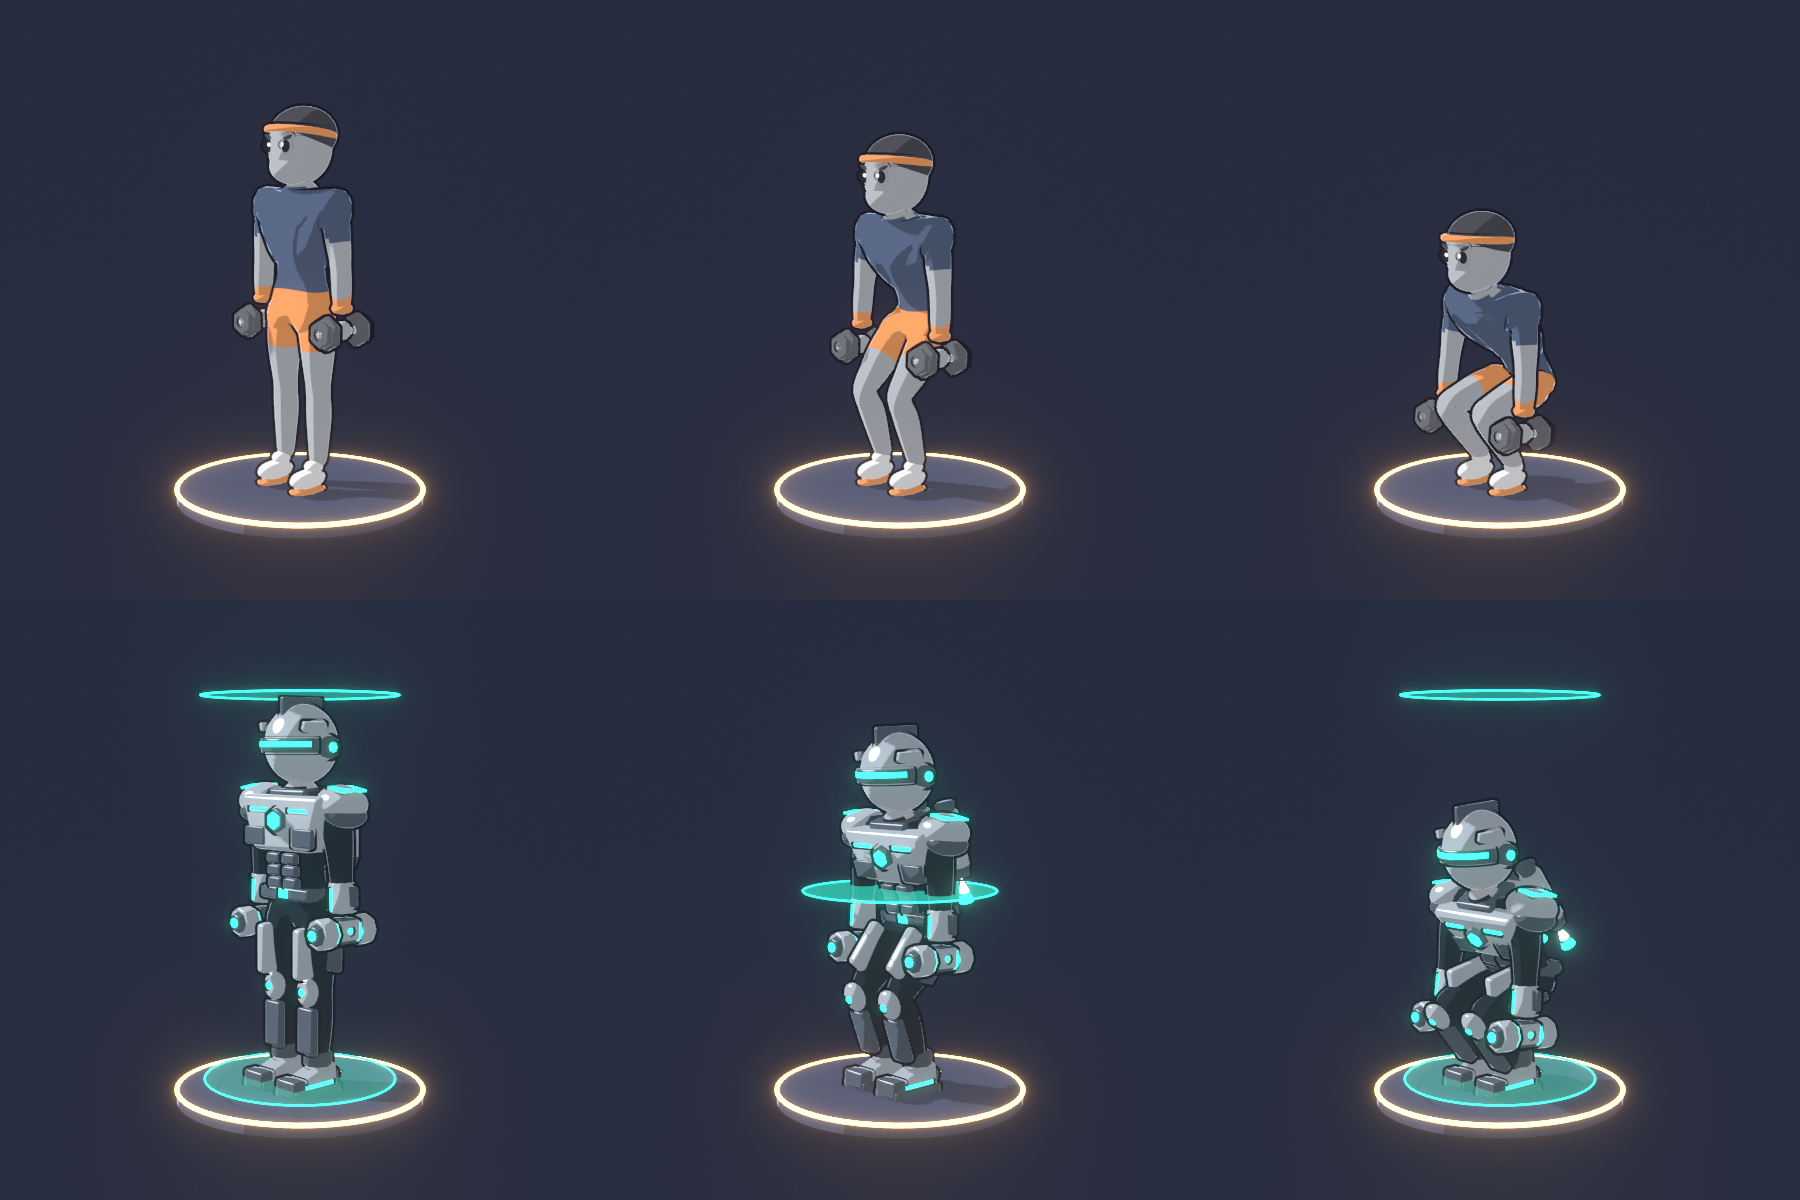
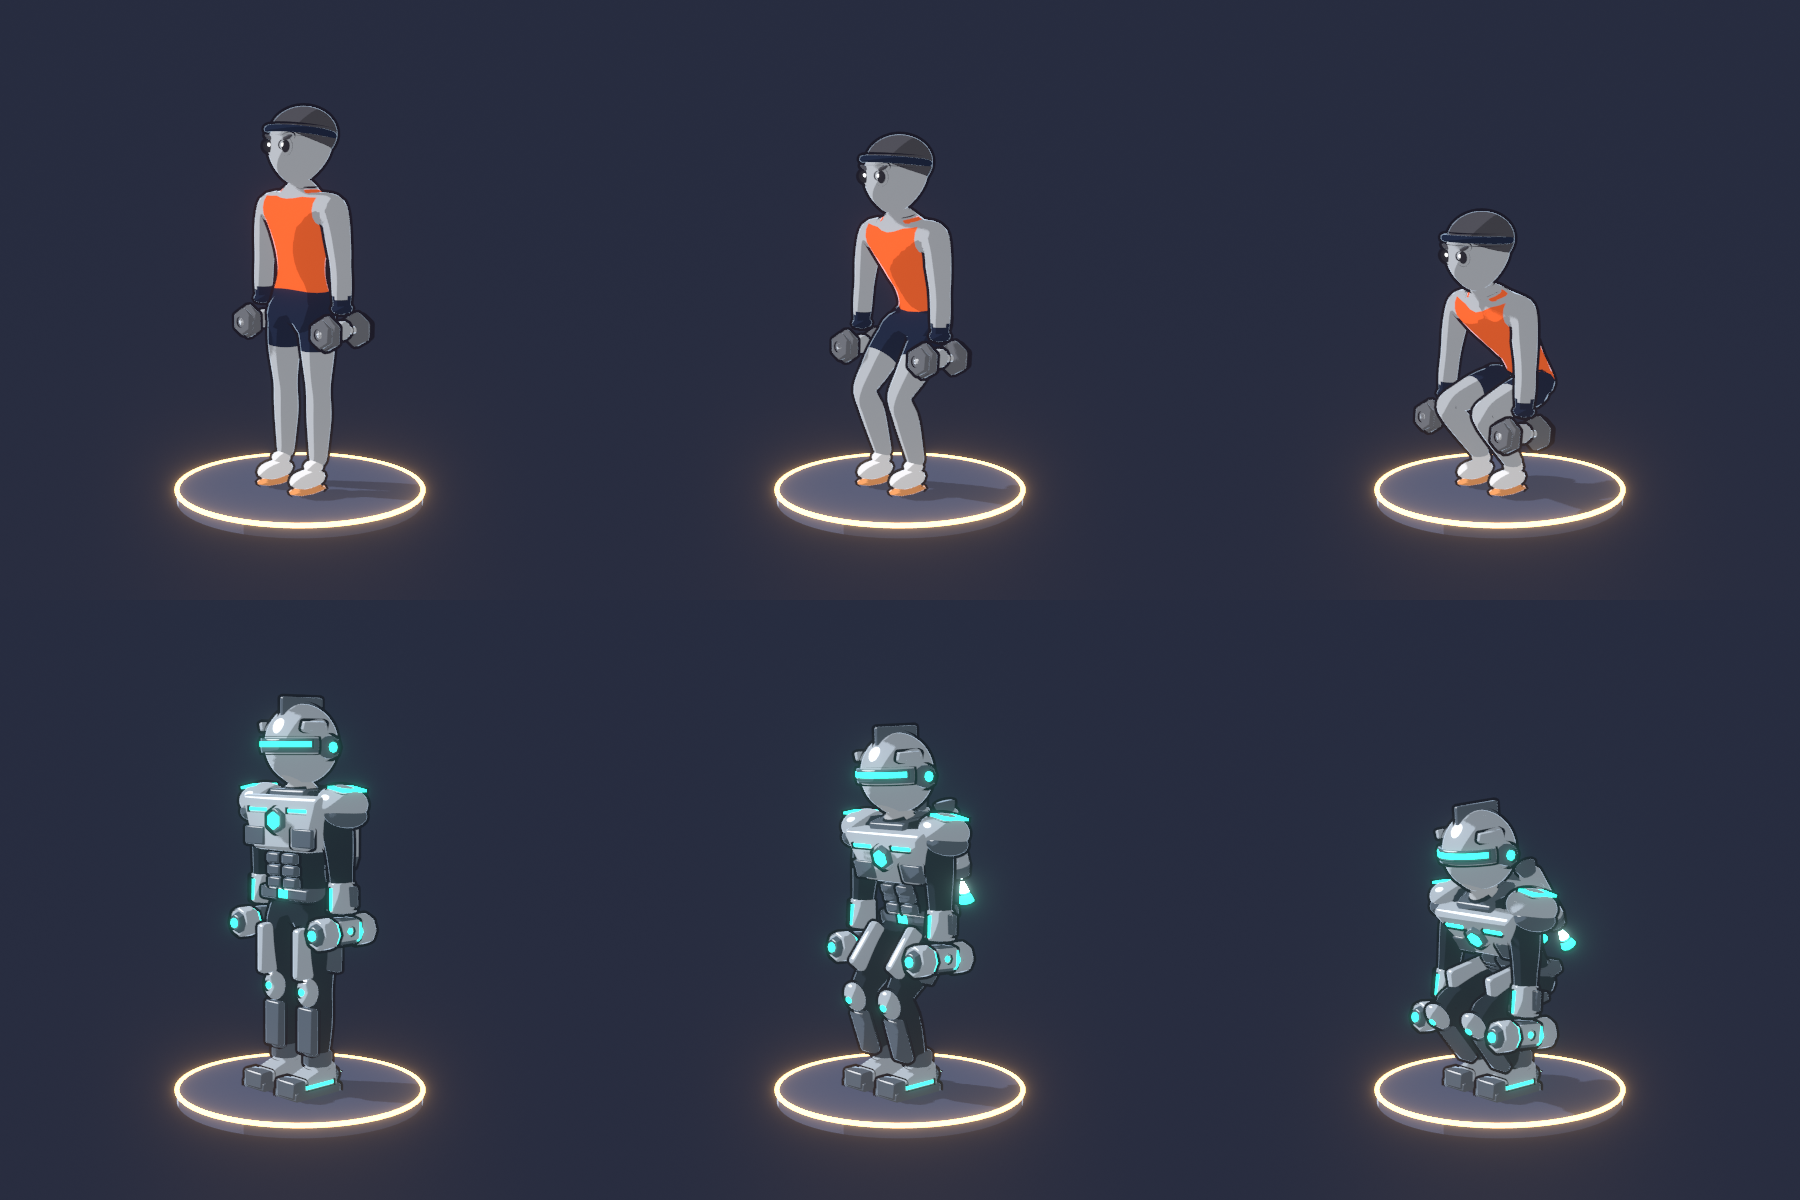
Blender: orange tank top, navy shorts, smooth egg head, scan FX off by default [skip ci]
Claude-Session: https://claude.ai/code/session_01XL283SXB5hAVxGJStW2M59

diff --git a/scripts/blender/hero_proto.py b/scripts/blender/hero_proto.py
@@ -63,8 +63,8 @@ def flat(name, color, strength=1.0):
 
 M = {
     'skin': toon('skin', (0.50, 0.53, 0.58)),
-    'shirt': toon('shirt', (0.10, 0.14, 0.24)),
-    'shorts': toon('shorts', (0.95, 0.38, 0.14)),
+    'shirt': toon('shirt', hexc('#FF6B35'), 0.62),   # 品牌橘背心
+    'shorts': toon('shorts', hexc('#1F2A44'), 0.6),  # 深藍灰短褲
     'shoe': toon('shoe', (0.92, 0.92, 0.95)),
     'sole': toon('sole', (0.95, 0.38, 0.14)),
     'hair': toon('hair', (0.08, 0.08, 0.10)),
@@ -72,7 +72,7 @@ M = {
     'grip': toon('grip', (0.62, 0.64, 0.68)),
     'eye': flat('eye', (0.02, 0.02, 0.03)),
     'eyehi': flat('eyehi', (1, 1, 1), 1.5),
-    'band': toon('band', (0.95, 0.38, 0.14)),
+    'band': toon('band', hexc('#1F2A44'), 0.6),
     # 鈦甲 c1 #8C98A8／c2 #31F2D4／c3 #2A3340
     'ti': toon('ti', hexc('#B4BFCC'), 0.5, spec=True),
     'tidk': toon('tidk', hexc('#5A6676'), 0.5, spec=True),
@@ -198,20 +198,23 @@ skinbody = skinmesh('skin', 'skin', P, E)
 skinbody.data.materials.append(M['shirt']); skinbody.data.materials.append(M['shorts'])
 for f_ in skinbody.data.polygons:
     c = f_.center; ax = abs(c.x)
-    if 1.0 < c.z < 1.50 and (ax < 0.2 or c.z > (0.92 if TI else 1.26)):
+    if (TI and 1.0 < c.z < 1.50 and (ax < 0.2 or c.z > 0.92)) or (not TI and 1.0 < c.z < 1.44 and ax < 0.19):
         f_.material_index = 1
     elif c.z <= 1.0 and c.z > (0.12 if TI else 0.72):
         f_.material_index = 2
-# 上衣：腰到肩、短袖
+# 上衣：基本款是貼身背心（只有肩帶），鈦甲是全身緊身衣
 SP = [((0, 0, 1.03), (0.135, 0.10)), ((0, -0.005, 1.30), (0.205, 0.125)), ((0, 0, 1.46), (0.10, 0.09))]
 SE = [(0, 1), (1, 2)]
 for sx in (1, -1):
+    if not TI:
+        SP += [((0.15 * sx, -0.005, 1.47), (0.045, 0.07))]; SE += [(1, len(SP) - 1)]
+        continue
     SP += [((0.23 * sx, 0, 1.42), (0.095, 0.09)), ((0.28 * sx, -0.005, 1.30), (0.075, 0.073))]
     SE += [(1, len(SP) - 2), (len(SP) - 2, len(SP) - 1)]
     if TI:
         SP += [((0.33 * sx, 0, 1.14), (0.058, 0.056)), ((0.35 * sx, -0.02, 0.93), (0.046, 0.042))]
         SE += [(len(SP) - 3, len(SP) - 2), (len(SP) - 2, len(SP) - 1)]
-shirt = skinmesh('shirt', 'shirt', SP, SE, 1.08 if TI else 1.15)
+shirt = skinmesh('shirt', 'shirt', SP, SE, 1.08 if TI else 1.06)
 HP = [((0, 0, 0.95), (0.155, 0.105)), ((0, 0, 1.07), (0.135, 0.10))]
 HE = [(0, 1)]
 for sx in (1, -1):
@@ -234,8 +237,14 @@ for o in (shirt, shorts):  # 衣服沿用身體的權重，彎曲時才不會穿
 for o in (skinbody, shirt, shorts): parts.append(o)
 # 頭
 H = (0, -0.01, 1.70)
-ellipsoid('head', 'skin', H, (0.155, 0.165, 0.18))
-if not TI: ellipsoid('head', 'skin', (0, -0.06, 1.61), (0.12, 0.11, 0.09))  # 下巴
+# 頭：一顆蛋形（下半部收窄成下巴，不另外加零件）
+bpy.ops.mesh.primitive_uv_sphere_add(segments=32, ring_count=20, location=H)
+_h = bpy.context.object; _h.scale = (0.152, 0.162, 0.182); bpy.ops.object.transform_apply(location=False, rotation=False, scale=True)
+for v in _h.data.vertices:
+    if v.co.z < 0:
+        k = 1 - 0.28 * (-v.co.z / 0.182) ** 1.5; v.co.x *= k; v.co.y *= k
+        v.co.y -= 0.025 * (-v.co.z / 0.182)   # 下巴略往前
+finish(_h, 'head', 'skin', 1)
 # 刺蝟短髮：幾束尖錐
 bpy.ops.object.select_all(action='DESELECT')
 def base_head():

diff --git a/scripts/blender/gear_titan.py b/scripts/blender/gear_titan.py
@@ -133,19 +133,20 @@ for s, sx in (('L', 1), ('R', -1)):
         cyl(f'hand.{s}', 'glow', c + Vector((0, -0.048 * sy, 0)), 0.065, 0.012, (0, 1, 0), 8)   # 發光環
         cyl(f'hand.{s}', 'glow', c + Vector((0, 0.072 * sy, 0)), 0.025, 0.01, (0, 1, 0), 8)     # 端蓋
 
-# ---------- 全像掃描（獨立物件，不跟骨架） ----------
-for i, ph in enumerate((0, 24)):
-    bpy.ops.mesh.primitive_torus_add(major_radius=0.48, minor_radius=0.005, major_segments=64, location=(0, 0, 0.05))
-    ring = bpy.context.object; ring.data.materials.append(M['glow'])
-    bpy.ops.mesh.primitive_circle_add(vertices=64, radius=0.48, fill_type='NGON', location=(0, 0, 0))
-    disc = bpy.context.object; disc.parent = ring
-    dm = bpy.data.materials.new(f'holo{i}'); dm.use_nodes = True; nt = dm.node_tree; nt.nodes.clear()
-    o_ = nt.nodes.new('ShaderNodeOutputMaterial'); em_ = nt.nodes.new('ShaderNodeEmission'); tr_ = nt.nodes.new('ShaderNodeBsdfTransparent')
-    mx_ = nt.nodes.new('ShaderNodeMixShader'); mx_.inputs[0].default_value = 0.12
-    em_.inputs['Color'].default_value = (*hexc('#31F2D4'), 1); em_.inputs['Strength'].default_value = 2
-    nt.links.new(tr_.outputs[0], mx_.inputs[1]); nt.links.new(em_.outputs[0], mx_.inputs[2]); nt.links.new(mx_.outputs[0], o_.inputs[0])
-    dm.blend_method = 'BLEND'; dm.shadow_method = 'NONE'; disc.data.materials.append(dm)
-    for f in range(0, 49, 4):
-        t = ((f + ph) % 48) / 48
-        z = 0.05 + 1.9 * (t * 2 if t < 0.5 else 2 - t * 2)
-        ring.location.z = z; ring.keyframe_insert('location', frame=f)
+# ---------- 全像掃描（獨立物件，不跟骨架）：示範影片不放，FX=1 才加 ----------
+if os.environ.get('FX') == '1':
+  for i, ph in enumerate((0, 24)):
+      bpy.ops.mesh.primitive_torus_add(major_radius=0.48, minor_radius=0.005, major_segments=64, location=(0, 0, 0.05))
+      ring = bpy.context.object; ring.data.materials.append(M['glow'])
+      bpy.ops.mesh.primitive_circle_add(vertices=64, radius=0.48, fill_type='NGON', location=(0, 0, 0))
+      disc = bpy.context.object; disc.parent = ring
+      dm = bpy.data.materials.new(f'holo{i}'); dm.use_nodes = True; nt = dm.node_tree; nt.nodes.clear()
+      o_ = nt.nodes.new('ShaderNodeOutputMaterial'); em_ = nt.nodes.new('ShaderNodeEmission'); tr_ = nt.nodes.new('ShaderNodeBsdfTransparent')
+      mx_ = nt.nodes.new('ShaderNodeMixShader'); mx_.inputs[0].default_value = 0.12
+      em_.inputs['Color'].default_value = (*hexc('#31F2D4'), 1); em_.inputs['Strength'].default_value = 2
+      nt.links.new(tr_.outputs[0], mx_.inputs[1]); nt.links.new(em_.outputs[0], mx_.inputs[2]); nt.links.new(mx_.outputs[0], o_.inputs[0])
+      dm.blend_method = 'BLEND'; dm.shadow_method = 'NONE'; disc.data.materials.append(dm)
+      for f in range(0, 49, 4):
+          t = ((f + ph) % 48) / 48
+          z = 0.05 + 1.9 * (t * 2 if t < 0.5 else 2 - t * 2)
+          ring.location.z = z; ring.keyframe_insert('location', frame=f)

diff --git a/scripts/blender/README.md b/scripts/blender/README.md
@@ -3,13 +3,13 @@
 雲端容器：`apt-get install -y blender libegl1 libgl1-mesa-dri python3-numpy`（Ubuntu 套件是 4.0.2，沒有 USD 匯出）。
 blender.org 下載站被網路政策擋，PyPI 的 `bpy` 需要 Python 3.11。
 
-- `hero_proto.py`：程序化建角色（Skin modifier 身體＋衣服、骨架自動權重、頭髮／眼睛／鞋／啞鈴剛性部件）、
+- `hero_proto.py`：程序化建角色（基本款：橘色貼身背心、深藍灰短褲、蛋形頭無下巴零件）（Skin modifier 身體＋衣服、骨架自動權重、頭髮／眼睛／鞋／啞鈴剛性部件）、
   啞鈴深蹲 48 格（關節座標 → 骨頭矩陣）、EEVEE 卡通兩階著色＋反向外殼描邊。
   `xvfb-run -a blender -b -P scripts/blender/hero_proto.py -- <輸出資料夾> 0 12 24`
 - `export_glb.py`：`blender -b <輸出資料夾>/hero.blend -P scripts/blender/export_glb.py` → 帶骨架和動畫的 GLB。
 
 - `gear_titan.py`：鈦甲系列 3D 測試版（`GEAR=titan`），頭盔、胸甲、腹甲、能量核心、肩甲、機械手甲、大腿甲、護膝、
-  推進靴、雙筒噴射背包、能量膠囊啞鈴、全像掃描環。硬殼零件用倒角不細分，剛性綁在骨頭上。
+  推進靴、雙筒噴射背包、能量膠囊啞鈴；全像掃描環只在 `FX=1` 時加（示範影片不放特效）。硬殼零件用倒角不細分，剛性綁在骨頭上。
 
 穿模處理：衣服用 Data Transfer 複製身體權重；衣服底下的身體面直接塗成衣服色。
 預覽：`docs/art/blender/`（`squat_basic.gif`、`squat_titan.gif`、`cmp.png`）。
